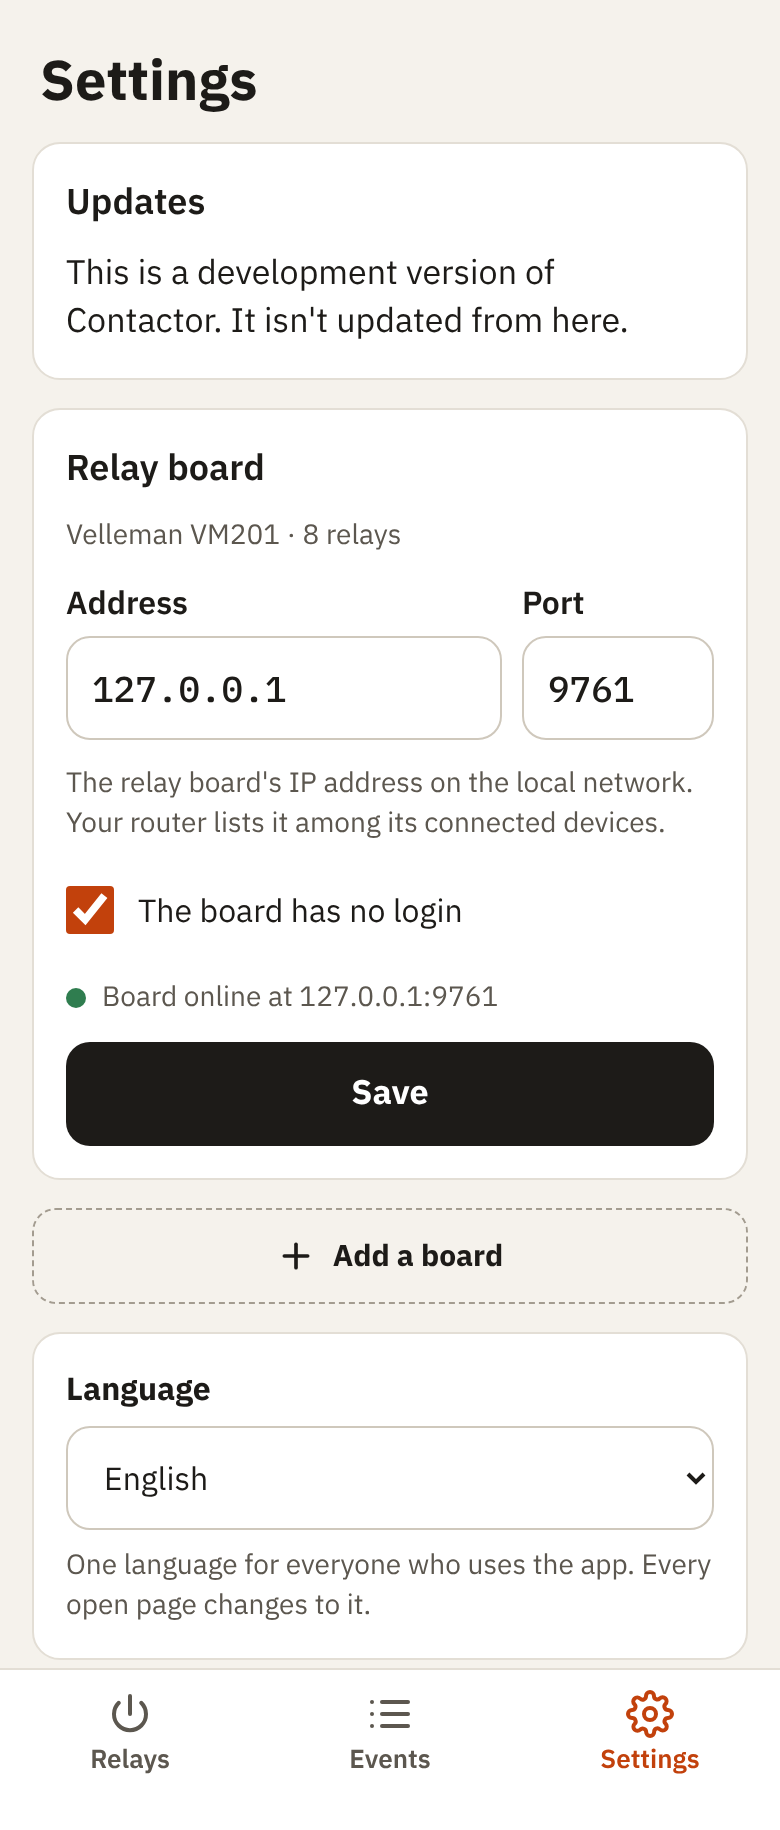
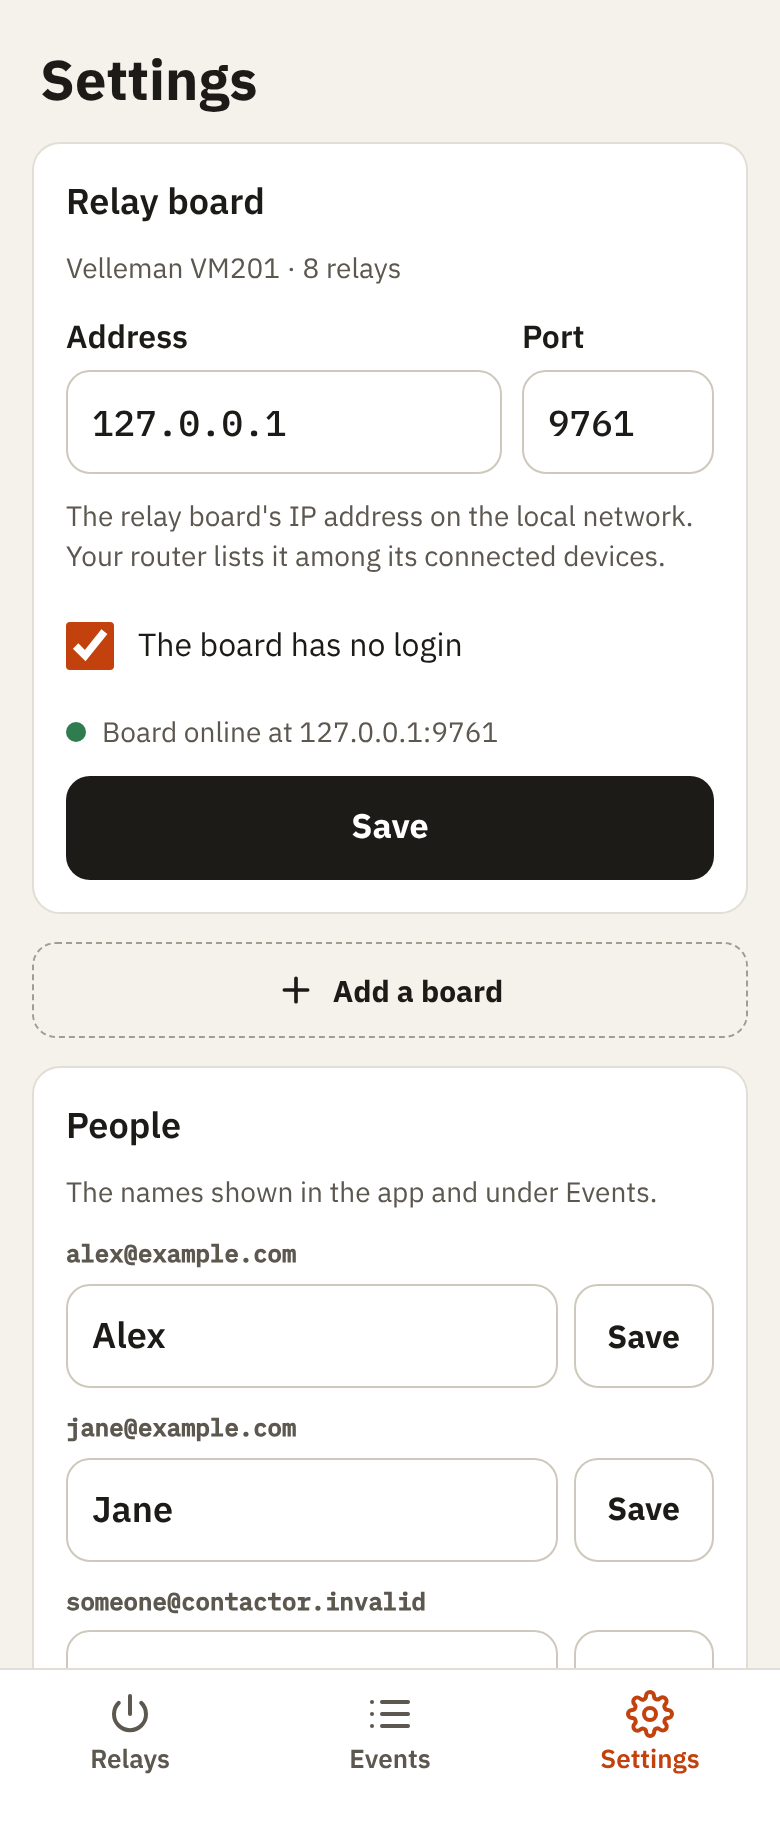
Show Settings' cards in the markup's order on every width
No CSS order: on a phone and a tablet the cards are one column in the
markup's order, the left column's first: the board or boards, Add a
board, People, Backups, Updates, Language, Debugging. The README's
Settings screenshot is taken again.

diff --git a/Contactor.Web/Components/Settings.razor.css b/Contactor.Web/Components/Settings.razor.css
@@ -234,33 +234,9 @@ button:disabled {
 }
 
 /* The desktop's two columns. On a phone and a tablet they aren't boxes of their own: their cards are the page's, in
-   one column, in the order below. Each column's cards keep that order on a desktop too. */
+   one column, in the markup's order. */
 .column {
     display: contents;
-}
-
-.column ::deep .updates {
-    order: 1;
-}
-
-.boards {
-    order: 2;
-}
-
-.language {
-    order: 3;
-}
-
-.people {
-    order: 4;
-}
-
-.backups {
-    order: 5;
-}
-
-.debugging {
-    order: 6;
 }
 
 /* With two or more boards: a row per board, opening its page. */

diff --git a/Contactor.Tests/Web/SettingsPageTests.cs b/Contactor.Tests/Web/SettingsPageTests.cs
@@ -138,6 +138,7 @@ public sealed class SettingsPageTests
     }
 
     // On a desktop two columns, each its own stack: the workshop's own things on the left, the app itself on the right.
+    // On a phone and a tablet the same cards are one column, in this order: the left column's, then the right's.
     [Fact]
     public async Task Should_PutTheCardsInTwoColumns_WithOneBoard()
     {
@@ -148,8 +149,8 @@ public sealed class SettingsPageTests
 
         var (left, right) = Columns(WebUtility.HtmlDecode(await http.GetStringAsync("/settings", Cancel)));
 
-        AssertInOrder(left, "class=\"board-stack boards\"", "id=\"host\"", "Add a board", "class=\"card people\"", "class=\"card backups\"");
-        AssertInOrder(right, "class=\"card updates\"", "class=\"card language\"", "id=\"language\"", "class=\"card debugging\"");
+        AssertInOrder(left, "class=\"board-stack\"", "id=\"host\"", "Add a board", ">People</h2>", ">Backups</h2>");
+        AssertInOrder(right, ">Updates</h2>", "id=\"language\"", ">Debugging</h2>");
     }
 
     [Fact]
@@ -160,8 +161,8 @@ public sealed class SettingsPageTests
 
         var (left, right) = Columns(WebUtility.HtmlDecode(await http.GetStringAsync("/settings", Cancel)));
 
-        AssertInOrder(left, "class=\"card boards\"", "href=\"board/1\"", $"href=\"board/{boards.BarnId}\"", "Add a board", "class=\"card people\"", "class=\"card backups\"");
-        AssertInOrder(right, "class=\"card updates\"", "class=\"card language\"", "class=\"card debugging\"");
+        AssertInOrder(left, ">Relay boards</h2>", "href=\"board/1\"", $"href=\"board/{boards.BarnId}\"", "Add a board", ">People</h2>", ">Backups</h2>");
+        AssertInOrder(right, ">Updates</h2>", "id=\"language\"", ">Debugging</h2>");
         Assert.DoesNotContain("board/", right, StringComparison.Ordinal);
     }
 

diff --git a/Contactor.Tests/Web/BoardAddingTests.cs b/Contactor.Tests/Web/BoardAddingTests.cs
@@ -198,7 +198,7 @@ public sealed class BoardAddingTests
         {
             using var http = one.CreateClient();
             var settings = WebUtility.HtmlDecode(await http.GetStringAsync("/settings", Cancel));
-            Assert.Matches("(?s)class=\"board-stack boards\".*id=\"host\".*href=\"board/new\" class=\"add-board\"", settings);
+            Assert.Matches("(?s)class=\"board-stack\".*id=\"host\".*href=\"board/new\" class=\"add-board\"", settings);
 
             // One board: the side menu has it too, and the relays' chips.
             Assert.Matches("(?s)class=\"side-boards\".*href=\"board/new\" class=\"side-add\"", settings);

diff --git a/docs/ARCHITECTURE.md b/docs/ARCHITECTURE.md
@@ -483,16 +483,16 @@ Mobile first (390 px), and it uses the space on a tablet and a desktop. The UI i
    - 50 at a time, with the button "Show more" for the next 50 (a button rather than loading on scroll, so no JavaScript is needed).
    - **Two or more boards** (one board looks as above, with the board filter's one board and "+ Board", as on Relays): the board filter of Relays under All / People / Automatic, kept apart from it: chips below 1024 px ("All boards", then each board's name, red with a warning sign without contact; no counts or lamps), the side menu's list on a desktop, and "Showing Workshop and Paint shop · Show all" while filtered. `EventsHandler` leaves out the other boards' events on the server; an event about no board always shows. Each row names its board before its target in small muted mono capitals ("PAINT SHOP Spray booth fan"), and an event about the board itself names it as the subject: "Workshop had its own timers turned off", "Garage lost contact with the app".
 7. **Settings** (`/settings`)
-   - **On a desktop** two columns, each its own stack with the page's 16 px gap, so a short card leaves no gap beside a tall one: on the left the board (or "Relay boards") with "+ Add a board", then "People", then "Backups"; on the right "Updates", then "Language" (when shown), then "Debugging". On a phone and a tablet the cards are one column, in the order below (`Settings.razor.css`: the columns are `display: contents` there, and each card has an `order`).
-   - "Updates", first (`UpdateBox.razor`, `Features/Updates`): "You have version **2026.11.14**." and, when GitHub lists a newer release, "Version 2026.11.20 is available" (`--accent-tint`), "WHAT'S NEW" with each newer release that lists changes (newest first, its date and its changes), "Update now" and "Contactor restarts. That takes about a minute. The relays stay as they are, and schedules catch up afterwards." "Update now" asks first: "Update to 2026.11.20?", "Contactor restarts. That takes about a minute, and the app doesn't answer meanwhile.", "The relays stay as they are. Schedules and auto-offs catch up once it's back.", "Cancel" and "Update". Then "Updating from 2026.11.14 to 2026.11.20." with its steps (Downloading 2026.11.20, Checking that it's ours, Backing up, Restarting, Checking the new version: done with a tick, the one under way with a spinner), "Cancel" until the restart, and "Started by John at 14:02. The relays stay as they are." Just before the restart every open page shows the splash (`UpdateSplash.razor`, from `Routes`): "Contactor is updating", "To version 2026.11.20. This takes about a minute, and the page comes back by itself.", a bar that fills in about a minute, and the relays line; the reconnect bar hides, and the page reloads by itself once the app is back (`reconnect.js` keeps trying while the splash shows). Someone who opens the app during that minute gets the tunnel's own "can't reach" page. For a day afterwards the box shows how it ended: "Updated to 2026.11.20 / At 14:03, by John.", or in red with "Try again" and "Show what happened" (the update's log, with "Download"): "The update to 2026.11.20 didn't work / Contactor went back to 2026.11.14 at 14:06. Nothing was lost.", "Couldn't download 2026.11.20 / Nothing was changed. Check the internet connection and try again.", and likewise for a failed signature check, no room ("The update needs 1.3 GB of free disk space, and there's 0.4 GB."), a failed backup, a cancel and a power cut. With nothing newer: "You have the newest version, **2026.11.20**." and "Checked today at 06:12." ("Couldn't check for updates." while GitHub can't be reached; what was read before stays offered). Without the update helper (a platform template, a plain compose run, or an installation from before the helper): no "Update now", but "Contactor is updated where it was installed, e.g. in Portainer, Unraid or with Docker Compose. Installed with the install command? Run it again: it adds what "Update now" needs." A development build: "This is a development version of Contactor. It isn't updated from here." Refused while a group is starting or running on ("A group is starting or running on. Update once it's done."), and while an update runs or waits (the box shows it). A group that starts during the download is waited for just before the restart: "Waiting for the relays to finish switching…" in place of "Backing up", with "Cancel"; it goes on by itself once the group is done, and after 10 minutes stops with nothing changed: "The update was stopped because the relays were still switching / Try again later. Nothing was changed." Anyone signed in may update; each update is an event: "John started the update to 2026.11.20", then "Contactor updated to 2026.11.20" or, in red, "Contactor went back to 2026.11.14: the update to 2026.11.20 didn't work", with "Download its log".
+   - **On a desktop** two columns, each its own stack with the page's 16 px gap, so a short card leaves no gap beside a tall one: on the left the board (or "Relay boards") with "+ Add a board", then "People", then "Backups"; on the right "Updates", then "Language" (when shown), then "Debugging". On a phone and a tablet the cards are one column in the same order as the markup, the left column's cards first (the columns are `display: contents` there, with no CSS `order`): the board or boards, "+ Add a board", "People", "Backups", "Updates", "Language", "Debugging", as below.
    - "Relay board", with one board (`BoardForm.razor`, as on a board's page without the name): the model ("Velleman VM201 · 8 relays"), the board's address ("Address") and "Port" (the model's default port as its placeholder), its login, for a model that has one ("The board has no login", or "User name" and "Password", with the model's login hint, e.g. "At most 8 characters: letters a–z, digits and plain symbols.", or else "At most N characters."; a model whose login is a password alone, the Devantech boards, shows only "Password" and "The board has no password", with its hint alone (the DAEnetIP2 v2 kits show only "Password" too); a model that always has a login (`BoardModel.LoginRequired`: the DAEnetIP2 v2 kits, whose password is the board's read-write SNMP community of 4 to 12 characters, and whose hint names the factory one, `private`, and says that a wrong community gets no answer) has no such box, in the setup guide too; the password is never shown, an empty field keeps it), the live status ("Board online at 192.168.1.50:9760", "No contact with the relay board at …" or "The relay board has no address yet"; when the board says why it refuses the connection, that reason in its place, and for another model the app knows, "Add it again as an ETH484-B with 'Add a board', then remove this one.", since a board's model can't be changed here), and "Save". After the person's own Save, a login problem that the board reports next (a password needed or wrong) unticks "The board has no password" ("… no login") and puts the cursor in Password (User name on a board with one), once. Saving moves the connection at once and is logged ("John changed the relay board's address from … to …", "John changed the relay board's login", never the values).
    - **Two or more boards:** "Relay boards" instead, "Tap a board to change its name, address or login, or to remove it.", and a row per board in the boards' order: its name (bold), "Velleman VM201 · 8 relays · 192.168.1.50", and a green dot with "Online", or, on a red row (`--danger-*`), "No contact since 07:42" ("No contact yet", "No address yet", or the short reason the board refuses the connection, e.g. "Wrong password"), with a chevron; a tap opens the board's page. With no board: "There's no relay board in Contactor. Add one to switch its relays here."
    - **"+ Add a board"**, dashed like "New group" (`--line-dashed`), opens "Add a board" (`/board/new`): under the one board's card (the card and the button are one stack in the desktop's left column), at the end of the list of boards, and in the "Relay boards" card with no board.
    - **A board's page** (`/board/{id}`, `BoardPage.razor`): "‹ Settings", the board's name as the heading, a "Board" card (the "Relay board" card above with "Name" first, at most 40 characters; Save saves the name on the board's row, shown at once on every screen and logged ("John renamed the relay board from Barn to Garage"), then the address and login of that board only), and a "Remove board" card: "Takes the board out of Contactor. Its relays, groups, schedules, input actions and events are deleted. The board itself isn't changed." and a red-outlined "Remove Garage". With one board the page is there too (`/board/1`), but Settings doesn't link to it. A board that isn't there: "This relay board isn't in Contactor."
    - **Remove** asks first on the same page: "Remove Garage?", "This deletes, and can't be undone:" and a list (the relays, and the groups, schedules and input actions when it has any, "All of Garage's events"), then "Its relays are turned off first. If a group is running on, you can remove it once that's done." when the board answers, or the red box "Garage has no contact. Any relay that's on stays on, and Contactor can't turn it off."; "Cancel" and a red "Remove" (`--danger-solid`, `--on-danger`). Removing (see Boards) goes to Settings; when it can't ("Fan heater – Lathe runs on until 14:32. Remove Garage when it's done.", "Garage has lost contact, so its relays couldn't be turned off. Nothing was removed.", "Some of Garage's relays didn't turn off. Nothing was removed. Try again.", "Couldn't remove Garage. Nothing was removed."), the page says so above the button. The last board can be removed too, which leaves the app with none (see Boards).
-   - "Language" ("English", "Svenska"), only with two or more languages: the app's one language for everyone, saved at once; every open page reloads in it (see Texts and language).
    - "People": everyone who has signed in, by e-mail, with their name ("Alex.smith" → "Alex") and "Save".
    - "Backups": the newest nightly copy ("Latest: 02:30 · 68 kB"), "Make a copy now" and "Download" (`GET /settings/backup`, behind the sign-in): the newest copy as a zip (`contactor-YYYY-MM-DD.zip` with the `.db` inside), so browsers don't warn about a `.db` file. The copies on the Pi stay plain `.db` files.
+   - "Updates" (`UpdateBox.razor`, `Features/Updates`): "You have version **2026.11.14**." and, when GitHub lists a newer release, "Version 2026.11.20 is available" (`--accent-tint`), "WHAT'S NEW" with each newer release that lists changes (newest first, its date and its changes), "Update now" and "Contactor restarts. That takes about a minute. The relays stay as they are, and schedules catch up afterwards." "Update now" asks first: "Update to 2026.11.20?", "Contactor restarts. That takes about a minute, and the app doesn't answer meanwhile.", "The relays stay as they are. Schedules and auto-offs catch up once it's back.", "Cancel" and "Update". Then "Updating from 2026.11.14 to 2026.11.20." with its steps (Downloading 2026.11.20, Checking that it's ours, Backing up, Restarting, Checking the new version: done with a tick, the one under way with a spinner), "Cancel" until the restart, and "Started by John at 14:02. The relays stay as they are." Just before the restart every open page shows the splash (`UpdateSplash.razor`, from `Routes`): "Contactor is updating", "To version 2026.11.20. This takes about a minute, and the page comes back by itself.", a bar that fills in about a minute, and the relays line; the reconnect bar hides, and the page reloads by itself once the app is back (`reconnect.js` keeps trying while the splash shows). Someone who opens the app during that minute gets the tunnel's own "can't reach" page. For a day afterwards the box shows how it ended: "Updated to 2026.11.20 / At 14:03, by John.", or in red with "Try again" and "Show what happened" (the update's log, with "Download"): "The update to 2026.11.20 didn't work / Contactor went back to 2026.11.14 at 14:06. Nothing was lost.", "Couldn't download 2026.11.20 / Nothing was changed. Check the internet connection and try again.", and likewise for a failed signature check, no room ("The update needs 1.3 GB of free disk space, and there's 0.4 GB."), a failed backup, a cancel and a power cut. With nothing newer: "You have the newest version, **2026.11.20**." and "Checked today at 06:12." ("Couldn't check for updates." while GitHub can't be reached; what was read before stays offered). Without the update helper (a platform template, a plain compose run, or an installation from before the helper): no "Update now", but "Contactor is updated where it was installed, e.g. in Portainer, Unraid or with Docker Compose. Installed with the install command? Run it again: it adds what "Update now" needs." A development build: "This is a development version of Contactor. It isn't updated from here." Refused while a group is starting or running on ("A group is starting or running on. Update once it's done."), and while an update runs or waits (the box shows it). A group that starts during the download is waited for just before the restart: "Waiting for the relays to finish switching…" in place of "Backing up", with "Cancel"; it goes on by itself once the group is done, and after 10 minutes stops with nothing changed: "The update was stopped because the relays were still switching / Try again later. Nothing was changed." Anyone signed in may update; each update is an event: "John started the update to 2026.11.20", then "Contactor updated to 2026.11.20" or, in red, "Contactor went back to 2026.11.14: the update to 2026.11.20 didn't work", with "Download its log".
+   - "Language" ("English", "Svenska"), only with two or more languages: the app's one language for everyone, saved at once; every open page reloads in it (see Texts and language).
    - "Debugging": the checkbox "Show the traffic to the relay board", per person and saved at once. While it is on, that person sees each packet to and from the board as a toast at the bottom of every page (at most 3, 6 s each, errors red; not the keep-alive or the channel names; with two or more boards from every board, each naming its board: "→ WORKSHOP Turn on relay 3"), and gets a fourth tab, Debug.
    - The running version at the bottom ("Version 2026.11.4 · 1fdaf34", "Development version" for local builds; `AppBuild.Text`, in the app's language); the only place it shows, except on a desktop, where it sits at the bottom of the side menu instead.
 8. **Debug** (`/debug`; the tab only shows while the person has Debugging on)

diff --git a/README.md b/README.md
@@ -47,7 +47,7 @@ English or Swedish.
 <p>
   <img src="docs/screenshots/setup.png" width="250" alt="The setup guide asks how people reach the app">
   <img src="docs/screenshots/relays-sv.png" width="250" alt="The relays in Swedish">
-  <img src="docs/screenshots/settings.png" width="250" alt="Settings: updates, the relay board and the language">
+  <img src="docs/screenshots/settings.png" width="250" alt="Settings: the relay board, Add a board and People">
 </p>
 
 On a tablet the cards sit in two columns. On a computer a side menu replaces the tab bar:
